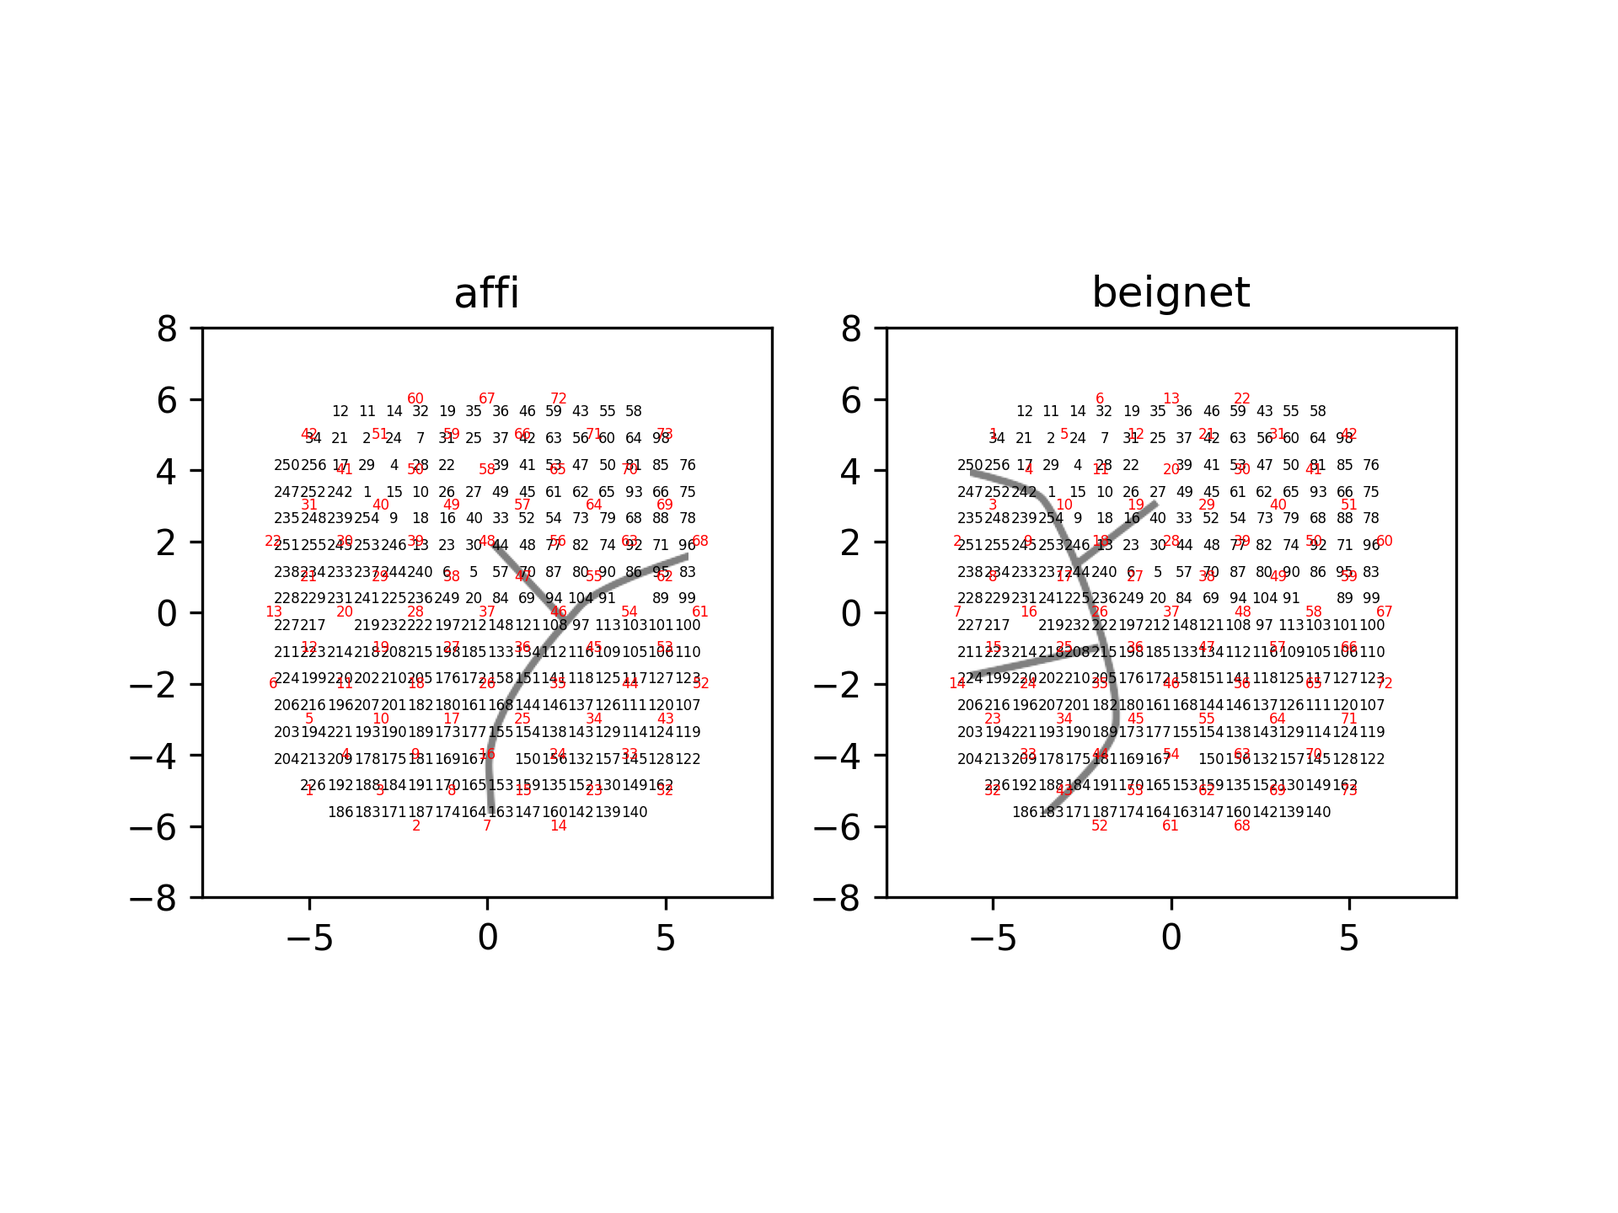
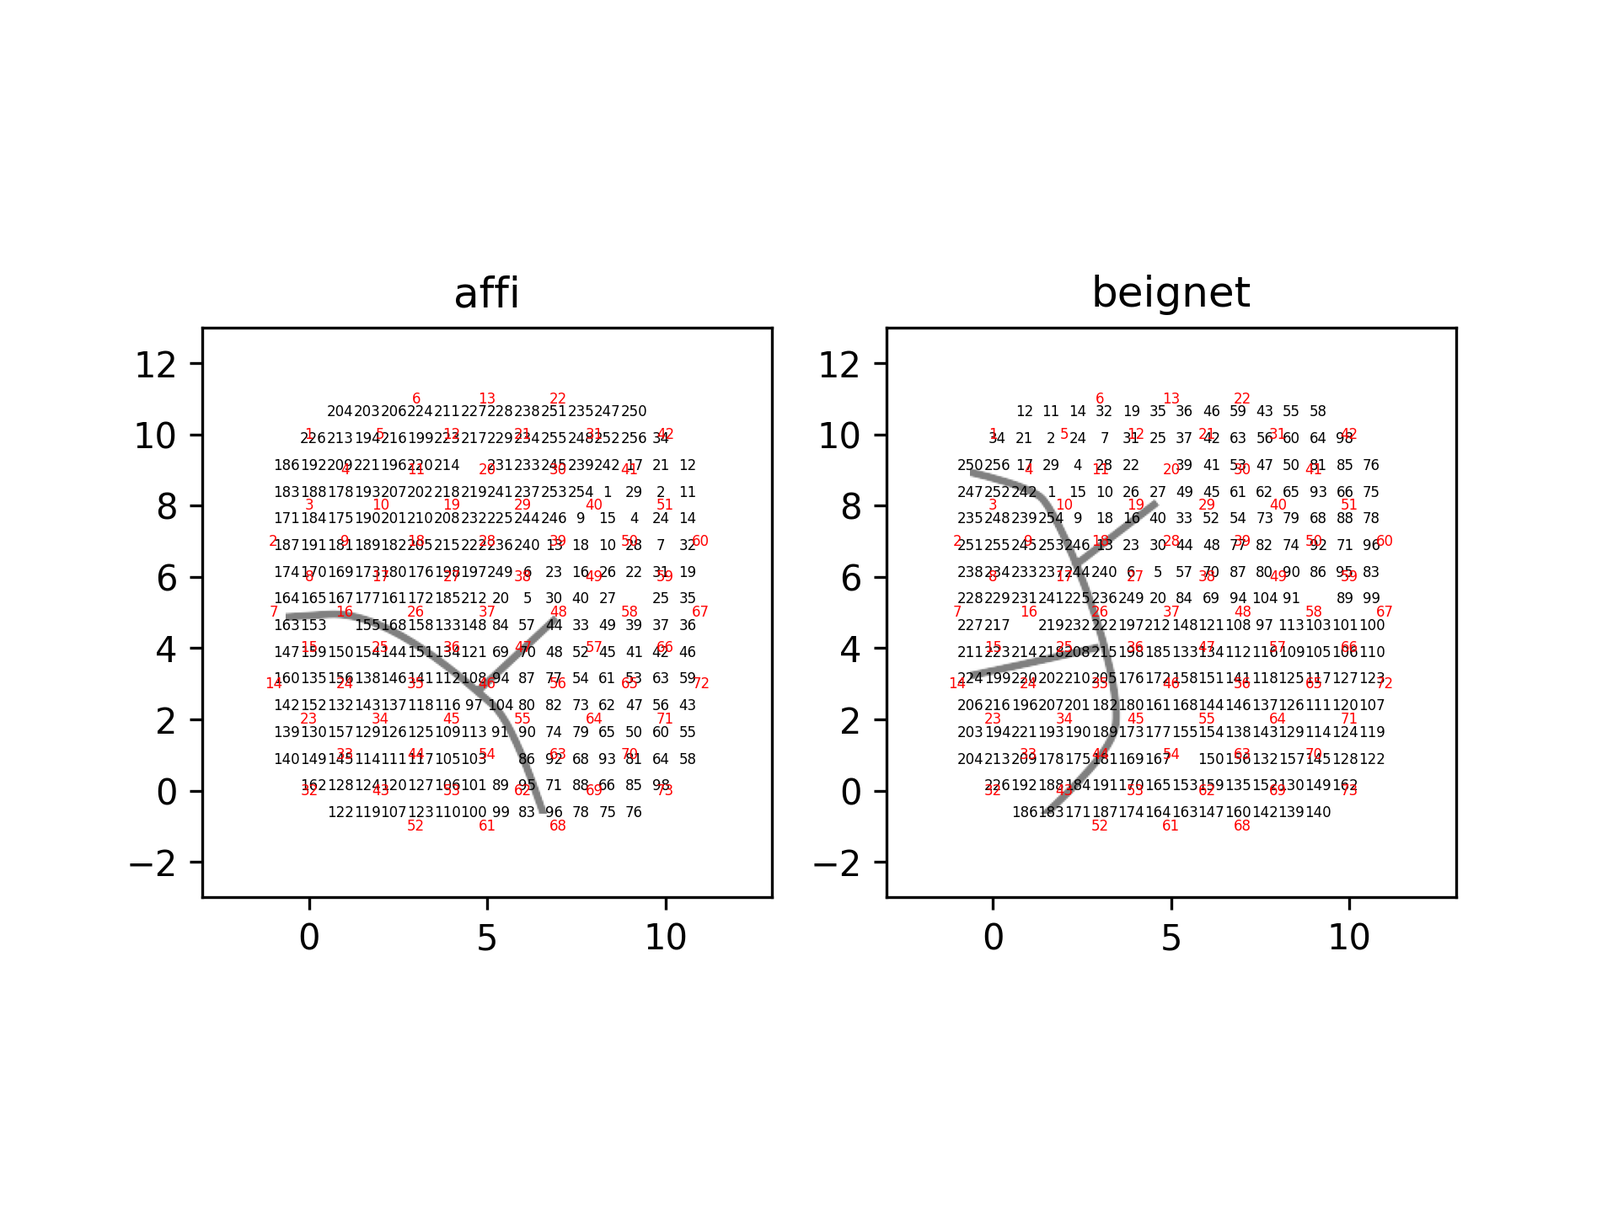
add centering

diff --git a/tests/test_data.py b/tests/test_data.py
@@ -1379,99 +1379,84 @@ class SignalPathTests(unittest.TestCase):
         self.assertEqual(acq_ch_position.shape[0], 240)
         self.assertEqual(acq_ch_position.shape[1], 2)
 
+        acq_ch_position, acq_chs, connected_elecs = load_chmap(drive_type='NP_Insert137')
+
     def test_align_neuropixel_recoring_drive(self):
         # Create plots for documentation with affi and biegnet
         fig, ax = plt.subplots(1,2)
         subjects = ['affi', 'beignet']
         neuropixel_drive='NP_Insert137'
         drive2 = 'ECoG244'
-        drive2_ch_pos, _ , _ = load_chmap(drive_type=drive2)
-        drive2_offset = -(np.max(drive2_ch_pos, axis=0) + np.min(drive2_ch_pos, axis=0))/2 
         for iax, subject in enumerate(subjects):
-            
-            aligned_np_drive_coordinates, drive2_coordinates, recording_sites, acq_elecs = align_neuropixel_recoring_drive(neuropixel_drive, drive2, subject,neuropixel_drive_offset=(0,0), drive2_offset=drive2_offset)
+            if subject == 'affi':
+                theta=90
+            else:
+                theta=0
+            aligned_np_drive_coordinates, drive2_coordinates, recording_sites, acq_elecs = align_neuropixel_recoring_drive(neuropixel_drive, drive2, subject, theta=theta)
             [ax[iax].annotate(str(acq_elecs[ipt]), (drive2_coordinates[ipt,0], drive2_coordinates[ipt,1]), ha='center', va='center', color='k',fontsize=4) for ipt in range(len(acq_elecs))]
             [ax[iax].annotate(str(recording_sites[ipt]), (aligned_np_drive_coordinates[ipt,0], aligned_np_drive_coordinates[ipt,1]), ha='center', va='center', color='r',fontsize=4) for ipt in range(len(recording_sites))]
-            visualization.base.overlay_sulci_on_spatial_map(subject, 'LM1', drive2, theta=0, offset=drive2_offset, ax=ax[iax])
+            visualization.base.overlay_sulci_on_spatial_map(subject, 'LM1', drive2, theta=theta, ax=ax[iax])
             ax[iax].set(xlim=(-8,8), ylim=(-8,8), title=f'{subject}')
-        visualization.savefig(docs_dir, f'{neuropixel_drive}_{drive2}_alignment.png')
+        visualization.savefig(docs_dir, f'{neuropixel_drive}_{drive2}_alignment.png', transparent=False)
 
         fig, ax = plt.subplots(1,2)
         neuropixel_drive='NP_Insert72'
         for iax, subject in enumerate(subjects):
-            
-            aligned_np_drive_coordinates, drive2_coordinates, recording_sites, acq_elecs = align_neuropixel_recoring_drive(neuropixel_drive, drive2, subject, neuropixel_drive_offset=(0,0), drive2_offset=drive2_offset)
+            if subject == 'affi':
+                theta=90
+            else:
+                theta=0
+            center = (5,5)
+            aligned_np_drive_coordinates, drive2_coordinates, recording_sites, acq_elecs = align_neuropixel_recoring_drive(neuropixel_drive, drive2, subject, theta=theta, center=center)
             [ax[iax].annotate(str(acq_elecs[ipt]), (drive2_coordinates[ipt,0], drive2_coordinates[ipt,1]), ha='center', va='center', color='k',fontsize=4) for ipt in range(len(acq_elecs))]
             [ax[iax].annotate(str(recording_sites[ipt]), (aligned_np_drive_coordinates[ipt,0], aligned_np_drive_coordinates[ipt,1]), ha='center', va='center', color='r',fontsize=4) for ipt in range(len(recording_sites))]
-            visualization.base.overlay_sulci_on_spatial_map(subject, 'LM1', drive2, theta=0, offset=drive2_offset, ax=ax[iax])
-            ax[iax].set(xlim=(-8,8), ylim=(-8,8), title=f'{subject}')
-        visualization.savefig(docs_dir, f'{neuropixel_drive}_{drive2}_alignment.png')
+            visualization.base.overlay_sulci_on_spatial_map(subject, 'LM1', drive2, theta=theta, center=center, ax=ax[iax])
+            ax[iax].set(xlim=(-3,13), ylim=(-3,13), title=f'{subject}')
+        visualization.savefig(docs_dir, f'{neuropixel_drive}_{drive2}_alignment.png', transparent=False)
 
         # Test the rest of the combinations
         for subject in subjects:
             neuropixel_drive = 'NP_Insert72'
             drive2 = 'ECoG244'
-            aligned_np_drive_coordinates, drive2_coordinates ,  recording_sites, acq_elecs = align_neuropixel_recoring_drive(neuropixel_drive, drive2, subject, neuropixel_drive_offset=(0,0), drive2_offset=drive2_offset)
+            aligned_np_drive_coordinates, drive2_coordinates ,  recording_sites, acq_elecs = align_neuropixel_recoring_drive(neuropixel_drive, drive2, subject)
             fig, ax = plt.subplots(1,1)
             [ax.annotate(str(acq_elecs[ipt]), (drive2_coordinates[ipt,0], drive2_coordinates[ipt,1]), ha='center', va='center', color='k',fontsize=4) for ipt in range(len(acq_elecs))]
             [ax.annotate(str(recording_sites[ipt]), (aligned_np_drive_coordinates[ipt,0], aligned_np_drive_coordinates[ipt,1]), ha='center', va='center', color='r', fontsize=4) for ipt in range(len(recording_sites))]
-            visualization.base.overlay_sulci_on_spatial_map(subject, 'LM1', drive2, theta=0, offset=drive2_offset)
+            visualization.base.overlay_sulci_on_spatial_map(subject, 'LM1', drive2, theta=0)
             ax.set(xlim=(-8,8), ylim=(-8,8), title=f'{subject}')
-            visualization.savefig(write_dir, f'{neuropixel_drive}_{drive2}_alignment_{subject}.png')
+            visualization.savefig(write_dir, f'{neuropixel_drive}_{drive2}_alignment_{subject}.png', transparent=False)
 
             neuropixel_drive='NP_Insert137'
-            aligned_np_drive_coordinates, drive2_coordinates , recording_sites, acq_elecs = align_neuropixel_recoring_drive(neuropixel_drive, drive2, subject, neuropixel_drive_offset=(0,0), drive2_offset=drive2_offset)
+            aligned_np_drive_coordinates, drive2_coordinates , recording_sites, acq_elecs = align_neuropixel_recoring_drive(neuropixel_drive, drive2, subject)
             fig, ax = plt.subplots(1,1)
             [ax.annotate(str(acq_elecs[ipt]), (drive2_coordinates[ipt,0], drive2_coordinates[ipt,1]), ha='center', va='center', color='k',fontsize=4) for ipt in range(len(acq_elecs))]
             [ax.annotate(str(recording_sites[ipt]), (aligned_np_drive_coordinates[ipt,0], aligned_np_drive_coordinates[ipt,1]), ha='center', va='center', color='r', fontsize=4) for ipt in range(len(recording_sites))]
-            visualization.base.overlay_sulci_on_spatial_map(subject, 'LM1', drive2, theta=0, offset=drive2_offset)
+            visualization.base.overlay_sulci_on_spatial_map(subject, 'LM1', drive2, theta=0)
             ax.set(xlim=(-8,8), ylim=(-8,8), title=f'{subject}')
-            visualization.savefig(write_dir, f'{neuropixel_drive}_{drive2}_alignment_{subject}.png')
+            visualization.savefig(write_dir, f'{neuropixel_drive}_{drive2}_alignment_{subject}.png', transparent=False)
 
             ## Test with opto drive
             drive2 = 'Opto32'
             neuropixel_drive = 'NP_Insert72'
             # acq_ch_position, acq_chs, connected_elecs = load_chmap(drive_type=drive2)
-            aligned_np_drive_coordinates, drive2_coordinates , recording_sites, acq_elecs = align_neuropixel_recoring_drive(neuropixel_drive, drive2, subject, neuropixel_drive_offset=(0,0), drive2_offset=drive2_offset)
+            aligned_np_drive_coordinates, drive2_coordinates , recording_sites, acq_elecs = align_neuropixel_recoring_drive(neuropixel_drive, drive2, subject)
             fig, ax = plt.subplots(1,1)
             [ax.annotate(str(acq_elecs[ipt]), (drive2_coordinates[ipt,0], drive2_coordinates[ipt,1]), ha='center', va='center', color='k',fontsize=5) for ipt in range(len(acq_elecs))]
             [ax.annotate(str(recording_sites[ipt]), (aligned_np_drive_coordinates[ipt,0], aligned_np_drive_coordinates[ipt,1]), ha='center', va='center', color='r', fontsize=5) for ipt in range(len(recording_sites))]
             ax.set(xlim=(-8,8), ylim=(-8,8), title=f'{subject}')
-            visualization.base.overlay_sulci_on_spatial_map(subject, 'LM1', 'ECoG244', theta=0, offset=drive2_offset)
+            visualization.base.overlay_sulci_on_spatial_map(subject, 'LM1', 'ECoG244', theta=0)
             ax.set_aspect('equal')
-            visualization.savefig(write_dir, f'{neuropixel_drive}_{drive2}_alignment_{subject}.png')
+            visualization.savefig(write_dir, f'{neuropixel_drive}_{drive2}_alignment_{subject}.png', transparent=False)
 
             neuropixel_drive='NP_Insert137'
-            aligned_np_drive_coordinates, drive2_coordinates , recording_sites, acq_elecs = align_neuropixel_recoring_drive(neuropixel_drive, drive2, subject, neuropixel_drive_offset=(0,0), drive2_offset=drive2_offset)
+            aligned_np_drive_coordinates, drive2_coordinates , recording_sites, acq_elecs = align_neuropixel_recoring_drive(neuropixel_drive, drive2, subject)
             fig, ax = plt.subplots(1,1)
             [ax.annotate(str(acq_elecs[ipt]), (drive2_coordinates[ipt,0], drive2_coordinates[ipt,1]), ha='center', va='center', color='k',fontsize=5) for ipt in range(len(acq_elecs))]
             [ax.annotate(str(recording_sites[ipt]), (aligned_np_drive_coordinates[ipt,0], aligned_np_drive_coordinates[ipt,1]), ha='center', va='center', color='r', fontsize=5) for ipt in range(len(recording_sites))]
-            visualization.base.overlay_sulci_on_spatial_map(subject, 'LM1', 'ECoG244', theta=0, offset=drive2_offset)
+            visualization.base.overlay_sulci_on_spatial_map(subject, 'LM1', 'ECoG244', theta=0)
             ax.set_aspect('equal')
             ax.set(xlim=(-8,8), ylim=(-8,8), title=f'{subject}')
-            visualization.savefig(write_dir, f'{neuropixel_drive}_{drive2}_alignment_{subject}.png')
-        
-        # Test that neuropixel offset works
-        subject='affi'
-        neuropixel_drive = 'NP_Insert72'
-        drive2 = 'ECoG244'
-        aligned_np_drive_coordinates, drive2_coordinates ,  recording_sites, acq_elecs = align_neuropixel_recoring_drive(neuropixel_drive, drive2, subject, neuropixel_drive_offset=-drive2_offset, drive2_offset=(0,0))
-        fig, ax = plt.subplots(1,1)
-        [ax.annotate(str(acq_elecs[ipt]), (drive2_coordinates[ipt,0], drive2_coordinates[ipt,1]), ha='center', va='center', color='k',fontsize=4) for ipt in range(len(acq_elecs))]
-        [ax.annotate(str(recording_sites[ipt]), (aligned_np_drive_coordinates[ipt,0], aligned_np_drive_coordinates[ipt,1]), ha='center', va='center', color='r', fontsize=4) for ipt in range(len(recording_sites))]
-        visualization.base.overlay_sulci_on_spatial_map(subject, 'LM1', drive2, theta=0)
-        ax.set(xlim=(-2.5,13), ylim=(-2.5,13), title=f'{subject}')
-        visualization.savefig(write_dir, f'{neuropixel_drive}_{drive2}_alignment_{subject}_npoffset.png')
-
-        # Test default automatic centering
-        aligned_np_drive_coordinates, drive2_coordinates ,  recording_sites, acq_elecs = align_neuropixel_recoring_drive(neuropixel_drive, drive2, subject)
-        fig, ax = plt.subplots(1,1)
-        [ax.annotate(str(acq_elecs[ipt]), (drive2_coordinates[ipt,0], drive2_coordinates[ipt,1]), ha='center', va='center', color='k',fontsize=4) for ipt in range(len(acq_elecs))]
-        [ax.annotate(str(recording_sites[ipt]), (aligned_np_drive_coordinates[ipt,0], aligned_np_drive_coordinates[ipt,1]), ha='center', va='center', color='r', fontsize=4) for ipt in range(len(recording_sites))]
-        visualization.base.overlay_sulci_on_spatial_map(subject, 'LM1', drive2, theta=0, offset=drive2_offset)
-        ax.set(xlim=(-8,8), ylim=(-8,8), title=f'{subject}')
-        visualization.savefig(write_dir, f'{neuropixel_drive}_{drive2}_alignment_{subject}_centered.png')
-
+            visualization.savefig(write_dir, f'{neuropixel_drive}_{drive2}_alignment_{subject}.png', transparent=False)
 
     def test_map_data2elec(self):
         test_signalpathfile = '210910_ecog_signal_path.xlsx'

diff --git a/aopy/data/base.py b/aopy/data/base.py
@@ -824,9 +824,10 @@ def map_acq2pos(signalpath_table, eleclayout_table, acq_ch_subset=None, theta=0,
     acq_ch_position = np.empty((nelec, 2))
 
     for ielec, elecid in enumerate(connected_elecs):
-        acq_ch_position[ielec,0] = eleclayout_table[xpos_name][eleclayout_table['electrode']==elecid]
-        acq_ch_position[ielec,1] = eleclayout_table[ypos_name][eleclayout_table['electrode']==elecid]
-
+        row = eleclayout_table.loc[eleclayout_table['electrode'] == elecid].iloc[0]
+        acq_ch_position[ielec, 0] = float(row[xpos_name])
+        acq_ch_position[ielec, 1] = float(row[ypos_name])
+        
     if theta != 0:
         theta = np.deg2rad(theta)
         rot_mat = np.array([[np.cos(theta),-np.sin(theta)],[np.sin(theta),np.cos(theta)]])
@@ -898,22 +899,29 @@ def map_data2elecandpos(datain, signalpath_table, eleclayout_table, acq_ch_subse
     
     return dataout, acq_ch_position, acq_chs, connected_elecs
 
-def load_chmap(drive_type='ECoG244', acq_ch_subset=None, theta=0, **kwargs):
+def load_chmap(drive_type='ECoG244', acq_ch_subset=None, theta=0, center=(0,0), **kwargs):
     '''
-    Load the mapping between acquisition channel and electrode number for the viventi ECoG array or between a chamber grid and chamber location.
+    Load the centered mapping between acquisition channels and electrode position for supported drives.
+    Currently supports 'ECoG244', 'Opto32', 'NP_Insert72', and 'NP_Insert137' drives.
     
     Args:
-        drive_type (str, optional): Drive type of the method used to record neural activity. Currently supports `ECoG244`, 'Opto32', 'NP_Insert72', and 'NP_Insert137'
+        drive_type (str, optional): Drive type of the method used to record neural activity. 
+            - 'ECoG244': Viventi 244 channel ECoG array          
+            - 'Opto32': Orsborn 32 channel fiber optic array
+            - 'NP_Insert72': Orsborn 72 site Neuropixel grid
+            - 'NP_Insert137': Orsborn 137 site Neuropixel grid
         acq_ch_subset (nacq, optional): Subset of acquisition channels to call. If not called, all acquisition 
             channels and connected electrodes will be returned.
         theta (float): rotation (in degrees) to apply to positions. rotations are applied clockwise, e.g., theta = 90 
             rotates the map clockwise by 90 degrees, -90 rotates the map anti-clockwise by 90 degrees. Default 0.
+        center (2-tuple): brain coordinates of the center of the drive in mm. Defaults to (0,0).
         kwargs (dict): Additional keyword arguments to pass to :func:`~aopy.data.map_acq2pos`
 
     Returns:
         tuple: Tuple Containing:
-            | **acq_ch_position (nelec, 2):** X and Y coordinates of the electrode each acquisition channel gets data from.
-                                        X position is in the first column and Y position is in the second column
+            | **acq_ch_position (nelec, 2):** X and Y coordinates (in mm) of the electrodes corresponding
+                to each acquisition channel.
+                X position is in the first column and Y position is in the second column
             | **acq_chs (nelec):** Acquisition channels that map to electrodes (e.g. 240/256 for viventi ECoG array)
             | **connected_elecs (nelec):** Electrodes used (e.g. 240/244 for viventi ECoG array)   
     
@@ -943,7 +951,6 @@ def load_chmap(drive_type='ECoG244', acq_ch_subset=None, theta=0, **kwargs):
         rotation_offset = (5.625, 5.625)
     elif drive_type == 'NP_Insert72' or drive_type == 'NP_Insert137':
         signal_path_filepath = as_file(config_files.joinpath(f'neuropixel_insert_ch_mapping/{drive_type}_signal_path.xlsx'))
-        print(signal_path_filepath)
         elec_to_pos_filepath = as_file(config_files.joinpath(f'neuropixel_insert_ch_mapping/{drive_type}_ch_mapping.xlsx'))
     else:
         raise ValueError('Drive type not supported')
@@ -954,10 +961,12 @@ def load_chmap(drive_type='ECoG244', acq_ch_subset=None, theta=0, **kwargs):
         layout = pd.read_excel(f)
     if acq_ch_subset is not None:
         acq_ch_subset = np.array(acq_ch_subset, dtype='int')
-    return map_acq2pos(signal_path, layout, acq_ch_subset=acq_ch_subset, theta=theta, 
-                       rotation_offset=rotation_offset, **kwargs)
+    elec_pos, acq_ch, elecs = map_acq2pos(signal_path, layout, acq_ch_subset=acq_ch_subset, theta=theta, 
+                                          rotation_offset=rotation_offset, **kwargs)
+    elec_pos = elec_pos - rotation_offset + center # re-center the coordinates
+    return elec_pos, acq_ch, elecs
 
-def align_neuropixel_recoring_drive(neuropixel_drive, drive2, subject, neuropixel_drive_offset='center', drive2_offset='center'):
+def align_neuropixel_recoring_drive(neuropixel_drive, drive2, subject, theta=0, center=(0,0)):
     '''
     This function aligns one drive to another drive type. In the current iteration, this function only supports aligning neuropixels drives ('NP_Insert72'/'NP_Insert137'') 
     to each other or to 'ECoG244'/'Opto32' drives. This function assumes a fixed mapping between subject and alignment is not currently compatible with selecting subsets of channels. 
@@ -1001,28 +1010,15 @@ def align_neuropixel_recoring_drive(neuropixel_drive, drive2, subject, neuropixe
         angle_lookup_filepath = as_file(config_files.joinpath(f'neuropixel_insert_ch_mapping/NP_Insert_angle_alignment.xlsx'))
         with angle_lookup_filepath as f:
             angle_df = pd.read_excel(f)
-            angle = angle_df.loc[angle_df['subject'] == subject, drive2].values[0]   
+            relative_angle = np.rad2deg(angle_df.loc[angle_df['subject'] == subject, drive2].values[0])
     else:    
-        angle = 0
+        relative_angle = 0
 
     # Load ch map for neuropixel drive and drive 2
-    np_drive_ch_pos, recording_sites , _ = load_chmap(drive_type=neuropixel_drive, theta=-np.rad2deg(angle))    
-    drive2_ch_pos, acq_elecs , _ = load_chmap(drive_type=drive2)
+    np_drive_ch_pos, recording_sites , _ = load_chmap(drive_type=neuropixel_drive, theta=theta - relative_angle, center=center)    
+    drive2_ch_pos, acq_elecs , _ = load_chmap(drive_type=drive2, theta=theta, center=center)
 
-    # Center offset if necessary
-    if isinstance(neuropixel_drive_offset, str):
-        if neuropixel_drive_offset == 'center':
-            neuropixel_drive_offset = -(np.max(np_drive_ch_pos, axis=0) + np.min(np_drive_ch_pos, axis=0))/2
-        else:
-            print('Invalid string entered for neuropixel_drive_offset')
-
-    if isinstance(drive2_offset, str):
-        if drive2_offset == 'center':
-            drive2_offset = -(np.max(drive2_ch_pos, axis=0) + np.min(drive2_ch_pos, axis=0))/2
-        else:
-            print('Invalid string entered for drive2_offset')
-
-    return np_drive_ch_pos + neuropixel_drive_offset, drive2_ch_pos + drive2_offset, recording_sites, acq_elecs
+    return np_drive_ch_pos, drive2_ch_pos, recording_sites, acq_elecs
 
 
 def parse_str_list(strings, str_include=None, str_avoid=None):

diff --git a/aopy/visualization/base.py b/aopy/visualization/base.py
@@ -2110,7 +2110,7 @@ def plot_circular_hist(data, bins=16, density=False, offset=0, proportional_area
 
     return n, bins, patches
 
-def overlay_image_on_spatial_map(filepath, drive_type, theta=0, offset=(0,0), color=None, invert=False, ax=None, **kwargs):
+def overlay_image_on_spatial_map(filepath, drive_type, theta=0, center=(0,0), color=None, invert=False, ax=None, **kwargs):
     '''
     Overlay an image on a spatial map of electrodes. The image is rotated by theta degrees and 
     placed at the same coordinates as electrode positions for the given electrode drive. The image
@@ -2120,7 +2120,7 @@ def overlay_image_on_spatial_map(filepath, drive_type, theta=0, offset=(0,0), co
         filepath (str): path to the image file
         drive_type (str): drive type to use for the spatial map. See :func:`aopy.data.load_chmap` for options.
         theta (int, optional): rotation of the image in degrees. Default is 0.
-        offset (tuple, list, or array): Define how much to translate the image with an X and Y coordinate. 
+        center (2-tuple): coordinates where the drive is centered on the brain (in mm). Default (0,0).
         color (str, optional): color to use for the image. Default is None.
         invert (bool, optional): whether to invert the image. Default is False.
         ax (pyplot.Axes, optional): axes on which to plot. Default current axis.
@@ -2141,9 +2141,9 @@ def overlay_image_on_spatial_map(filepath, drive_type, theta=0, offset=(0,0), co
     img = np.rot90(img, np.ceil(theta/90), axes=(1,0))
     
     # Calculate the proper extents
-    elec_pos, _, _ = aodata.load_chmap(drive_type, theta=theta)
-    x = elec_pos[:,0] + offset[0]
-    y = elec_pos[:,1] + offset[1]
+    elec_pos, _, _ = aodata.load_chmap(drive_type, theta=theta, center=center)
+    x = elec_pos[:,0]
+    y = elec_pos[:,1]
     extent = [np.min(x), np.max(x), np.min(y), np.max(y)]
     x_spacing = (extent[1] - extent[0]) / (len(x) - 1)
     y_spacing = (extent[3] - extent[2]) / (len(y) - 1)
@@ -2151,7 +2151,7 @@ def overlay_image_on_spatial_map(filepath, drive_type, theta=0, offset=(0,0), co
 
     ax.imshow(img, origin='upper', extent=extent, **kwargs)
 
-def overlay_sulci_on_spatial_map(subject, chamber, drive_type, theta=0, alpha=0.5, **kwargs):
+def overlay_sulci_on_spatial_map(subject, chamber, drive_type, theta=0, center=(0,0), alpha=0.5, **kwargs):
     '''
     Overlay a precomputed image of chamber sucli on a spatial map of electrodes. 
     Images are stored in the aopy.config directory. Currently available images are:
@@ -2163,6 +2163,7 @@ def overlay_sulci_on_spatial_map(subject, chamber, drive_type, theta=0, alpha=0.
         chamber (str): chamber type
         drive_type (str): drive type
         theta (int, optional): rotation of the image in degrees. Default is 0.
+        center (2-tuple): coordinates where the drive is centered on the brain (in mm). Default (0,0).
         alpha (float, optional): transparency of the image. Default is 0.5.
         kwargs (dict, optional): other keyword arguments to pass to ax.imshow, e.g. color.
 
@@ -2188,4 +2189,4 @@ def overlay_sulci_on_spatial_map(subject, chamber, drive_type, theta=0, alpha=0.
     filename = f'{subject.lower()}_{chamber.lower()}_{drive_type.lower()}_sulci.png'
     params_file = as_file(config_dir.joinpath(filename))
     with params_file as f:
-        overlay_image_on_spatial_map(f, drive_type, theta=theta, alpha=alpha, **kwargs)
+        overlay_image_on_spatial_map(f, drive_type, theta=theta, center=center, alpha=alpha, **kwargs)
